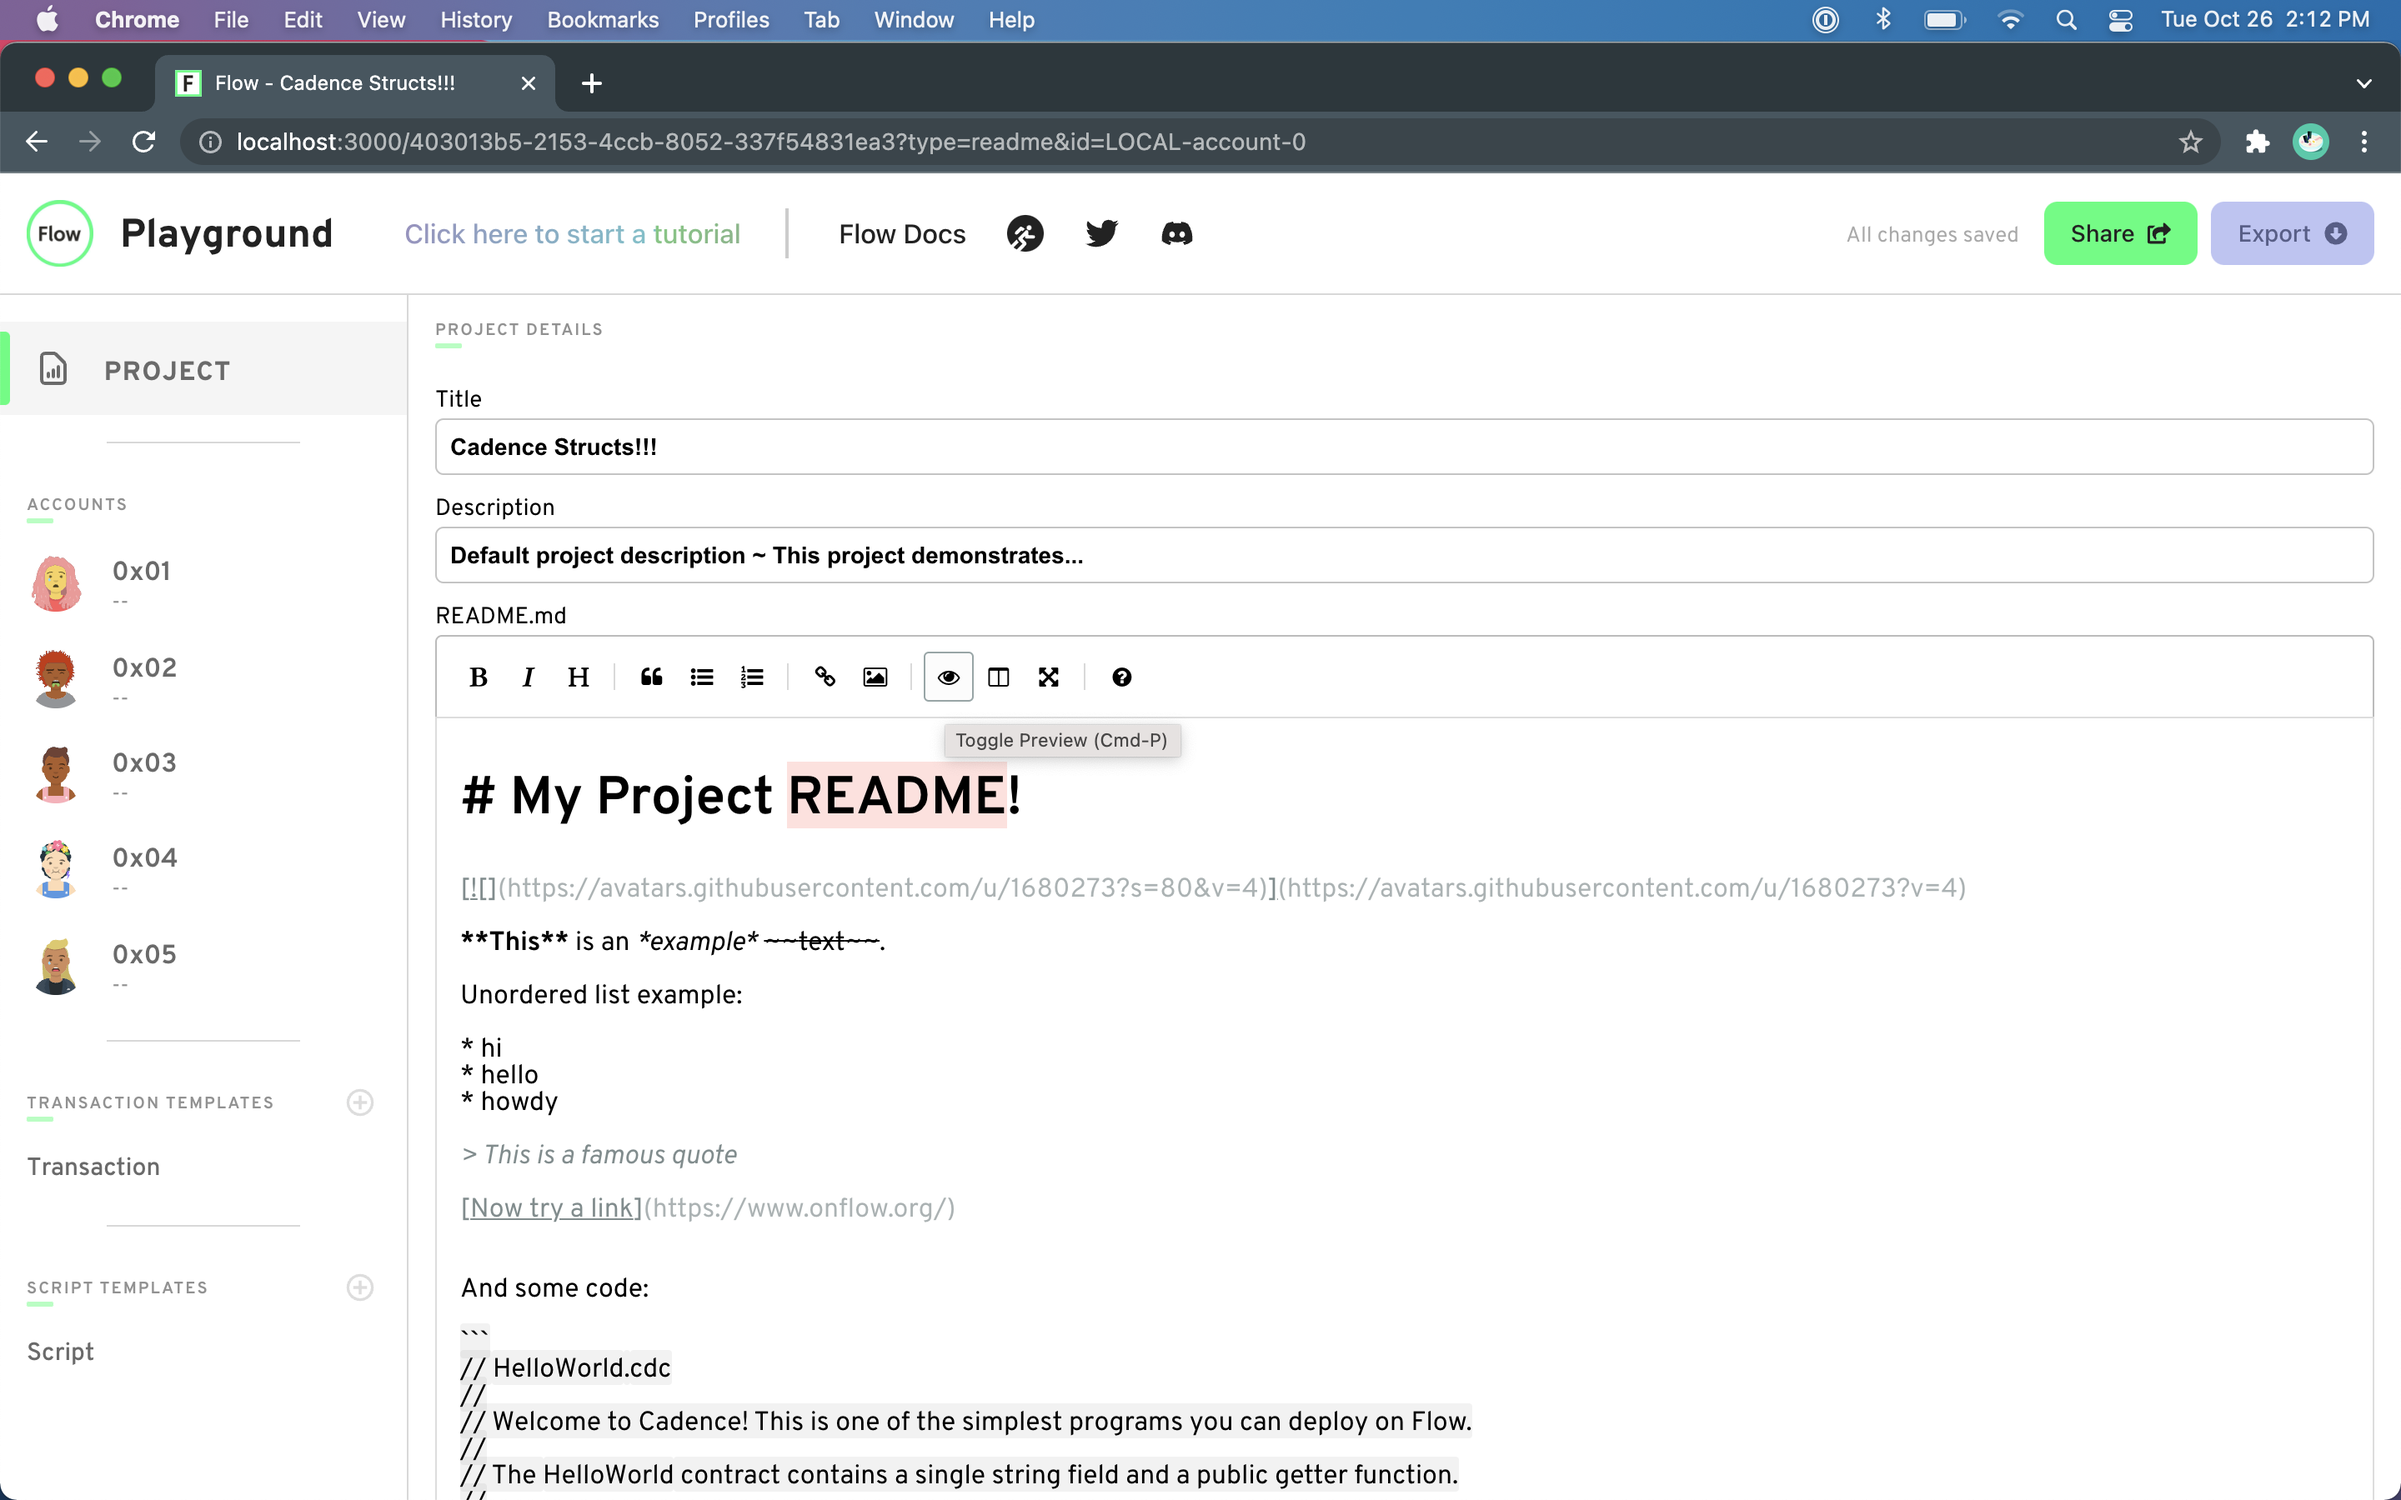
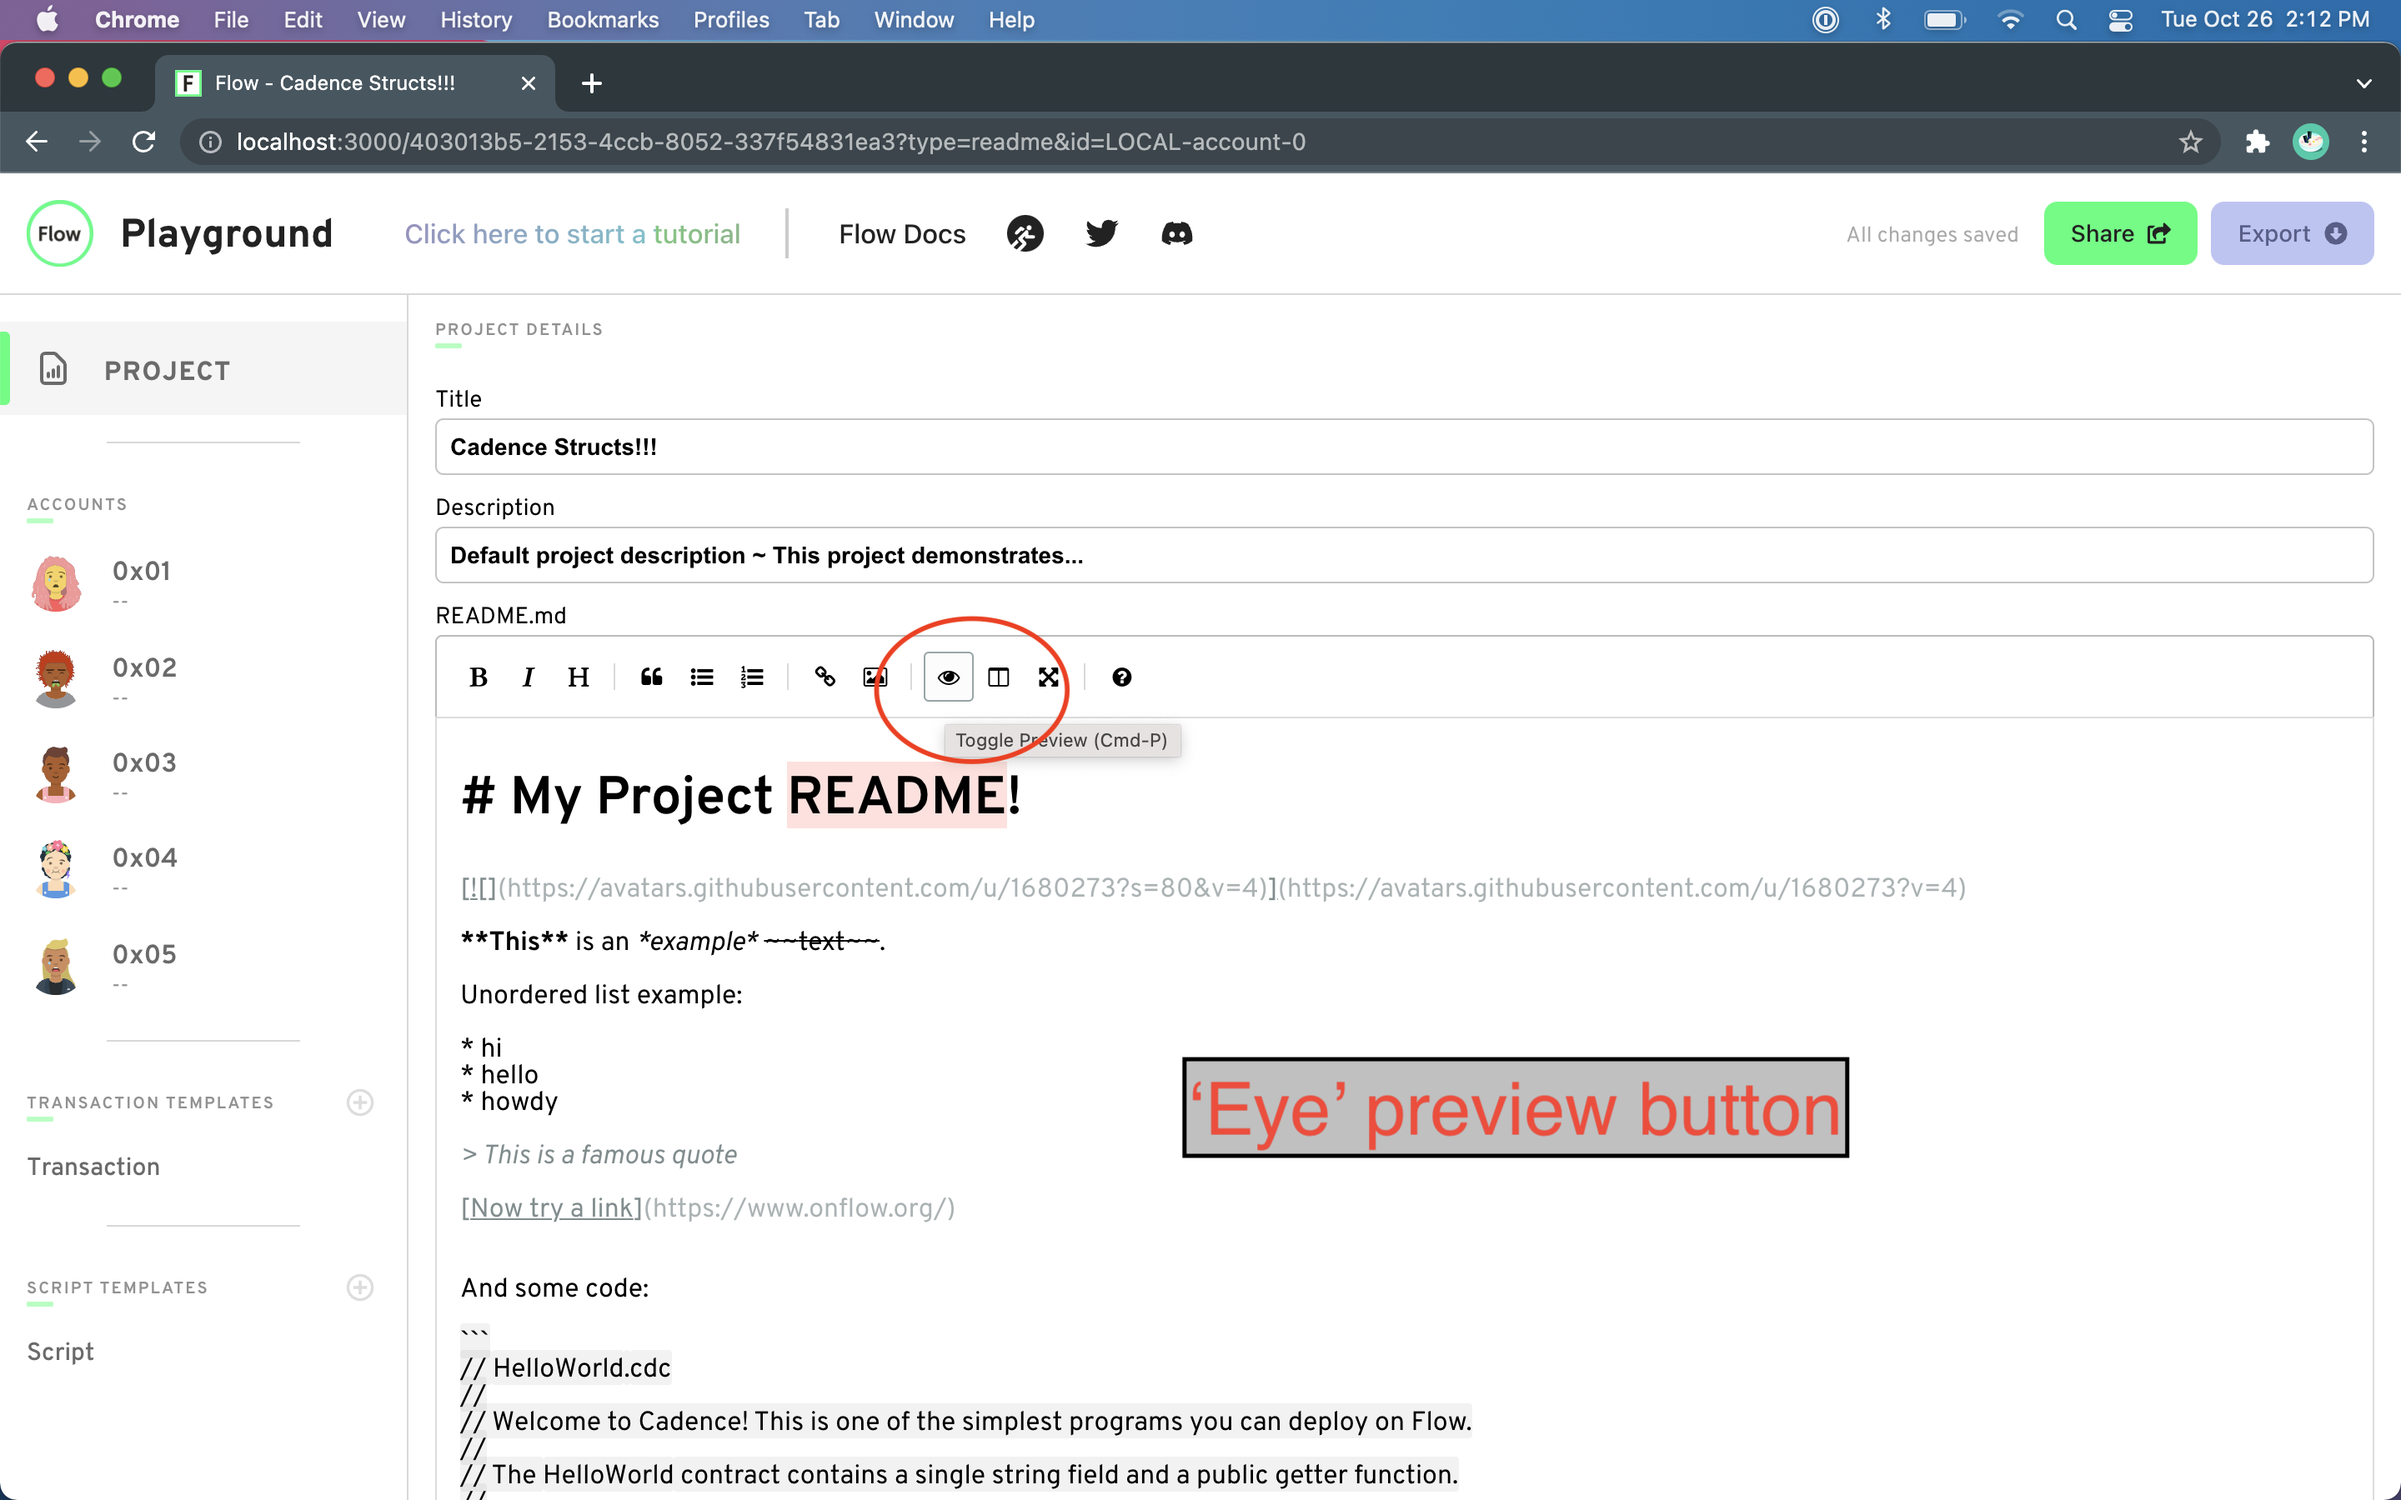
add annotations to images, add images to the readme

Changed region(s): [[0.4688, 0.6844, 0.7812, 0.7778], [0.375, 0.4044, 0.4375, 0.4356], [0.375, 0.4978, 0.4062, 0.5289]]

diff --git a/submission/issue-18/milestone-2/TeamExponential/README.md b/submission/issue-18/milestone-2/TeamExponential/README.md
@@ -5,34 +5,57 @@
 Thank you for reading our Milestone 2 submission, "Implement UI changes.". After receiving [feedback from Max and Pete](https://github.com/onflow/flip-fest/pull/40#issuecomment-926683566), we iterated on our design, moving the project title, description and readme functionality from a button in the top right of the playground that rendered a popup, to a button in the sidebar that utilizes the playground editor window to display the functionality. The first version of our UI design can be found in the [mockups for Milestone 1 submission](https://github.com/hichana/flip-fest/tree/submissions/issue-%2318/milestone-%231/TeamExponential/submissions/issue-%2318/milestone-%231/TeamExponential/wireframe-mockups). Please note that with this milestone 2 we are not making a code submission as that will be made with Milestone 3 "Add support for storing and loading the README data on the frontend.". Below is a screenshot walkthrough of the new/iterated UI with typical user flows.
 
 
-First load of the playground:
+### First load of the playground:
 - the user is encouraged to immediately start playing with contracts, scripts or transactions just as they are with the current playground. 
+![first load](https://github.com/hichana/flip-fest/blob/submissions/issue-%2318/milestone-%232/TeamExponential/submission/issue-18/milestone-2/TeamExponential/images/1%20-%20first%20load.png?raw=true)
 
-User clicks 'Save' button:
+
+### User clicks 'Save' button:
 - now that the user is serious about making something either for their own use or to share, we redirect them to the 'PROJECT' editor upon clicking 'Save'. 
 - The URL now includes the project id and type as 'readme'
+![save url](https://github.com/hichana/flip-fest/blob/submissions/issue-%2318/milestone-%232/TeamExponential/submission/issue-18/milestone-2/TeamExponential/images/2%20-%201%20-%20save,%20url.png?raw=true)
+
 - user enters title, description and readme content. Title populates the browser tab with text every three seconds after user enters text.
-- user can click on any other account, tx or script and the url updates as normal. Upon clicking back on the 'PROJECT' button the URL updates accordingly. 
+![title, text tab](https://github.com/hichana/flip-fest/blob/submissions/issue-%2318/milestone-%232/TeamExponential/submission/issue-18/milestone-2/TeamExponential/images/2%20-%202%20-%20title,%20tab%20text.png?raw=true)
+
+- user can click on any other account, tx or script and the url updates as normal. Upon clicking back on the 'PROJECT' button the URL updates accordingly and the user is shown persisted content that was autosaved.
+![same click routing as before](https://github.com/hichana/flip-fest/blob/submissions/issue-%2318/milestone-%232/TeamExponential/submission/issue-18/milestone-2/TeamExponential/images/2%20-%203%20-%20same%20click%20routing%20as%20before.png?raw=true)
+
+![back to readme url](https://github.com/hichana/flip-fest/blob/submissions/issue-%2318/milestone-%232/TeamExponential/submission/issue-18/milestone-2/TeamExponential/images/2%20-%204%20-%20back%20to%20readme%20url.png?raw=true)
+
 - user can see a preview of the markdown by clicking on the 'eye' icon in the markdown editor toolbar
+![eye preview](https://github.com/hichana/flip-fest/blob/submissions/issue-%2318/milestone-%232/TeamExponential/submission/issue-18/milestone-2/TeamExponential/images/2%20-%205%20-%20eye%20preview.png?raw=true)
+
 - optionally, the user can see a full-screen split version of the markdown by clicking on the 'split' icon in the markdown editor toolbar
+![optional split screen](https://github.com/hichana/flip-fest/blob/submissions/issue-%2318/milestone-%232/TeamExponential/submission/issue-18/milestone-2/TeamExponential/images/2%20-%206%20-%20split%20screen%20option.png?raw=true)
 
-User clicks 'Share' button:
+### User clicks 'Share' button:
 - as before, the share link will be a direct link to the section of current selection, giving the user freedom to share whichever part of the playground they choose
+![share](https://github.com/hichana/flip-fest/blob/submissions/issue-%2318/milestone-%232/TeamExponential/submission/issue-18/milestone-2/TeamExponential/images/3%20-%201%20-%20share.png?raw=true)
 
 
-User clicks 'Export' button:
+### User clicks 'Export' button:
 - same functionality from before exists
+![export popup](https://github.com/hichana/flip-fest/blob/submissions/issue-%2318/milestone-%232/TeamExponential/submission/issue-18/milestone-2/TeamExponential/images/4%20-%201%20-%20export%20popup.png?raw=true)
+
 - the download file now bears the project name  
+![title1](https://github.com/hichana/flip-fest/blob/submissions/issue-%2318/milestone-%232/TeamExponential/submission/issue-18/milestone-2/TeamExponential/images/4%20-%202%20-%20title.png?raw=true)
+![title2](https://github.com/hichana/flip-fest/blob/submissions/issue-%2318/milestone-%232/TeamExponential/submission/issue-18/milestone-2/TeamExponential/images/4%20-%202%20-%20title2.png?raw=true)
+
 - the README.md file is included in the download package and can be opened up in a code editor like VS Code 
+![readme file](https://github.com/hichana/flip-fest/blob/submissions/issue-%2318/milestone-%232/TeamExponential/submission/issue-18/milestone-2/TeamExponential/images/4%20-%203%20-%201%20readme%20file.png?raw=true)
+
   - in the readme file, note that the 'Title' is added as an H1 heading, 'Description' as an H2 heading with its text, and Readme content are all present
+  ![open readme in code editor](https://github.com/hichana/flip-fest/blob/submissions/issue-%2318/milestone-%232/TeamExponential/submission/issue-18/milestone-2/TeamExponential/images/4%20-%203%20-%202%20open%20readme%20in%20code%20editor.png?raw=true)
 
 Visitor to the playground:
 - sees the title, description and readme content as HTML  
+![visitor html](https://github.com/hichana/flip-fest/blob/submissions/issue-%2318/milestone-%232/TeamExponential/submission/issue-18/milestone-2/TeamExponential/images/5%20-%201%20-%20visitor%20html.png?raw=true)
 
 Visitor to the playgorund clicks the 'Fork' button:
 - first, if the visitor explores the project before clicking the 'Fork' button, they will see the owner's original code as usual
 - upon clicking the 'Fork' button, they are redirected to the PROJECT section, encouraging them to establish the title, description and readme content for their forked version
+![visitor redirected](https://github.com/hichana/flip-fest/blob/submissions/issue-%2318/milestone-%232/TeamExponential/submission/issue-18/milestone-2/TeamExponential/images/6%20-%201%20-%20visitor%20redirected.png?raw=true)
 
 
-[ADD NOTES ABOUT BUG HERE.]
 
